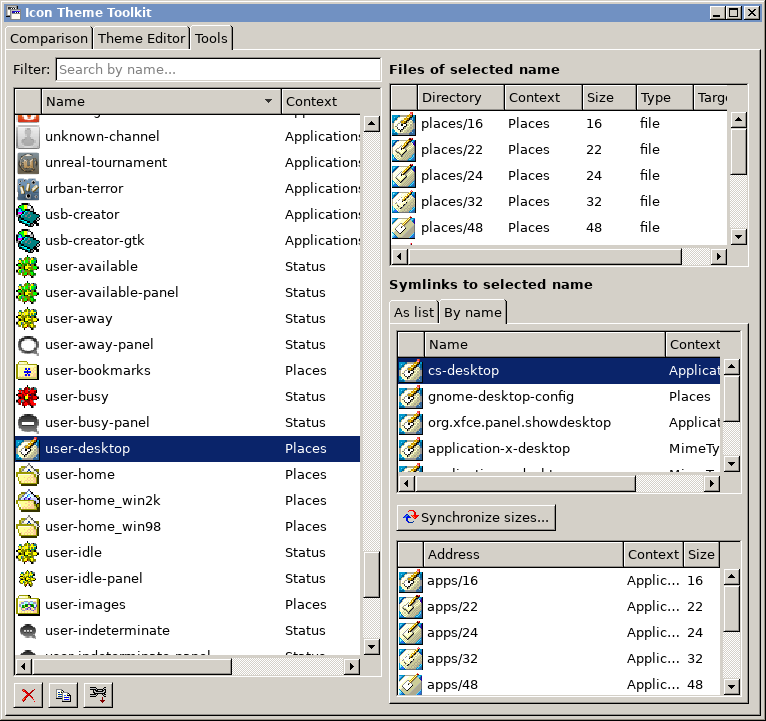
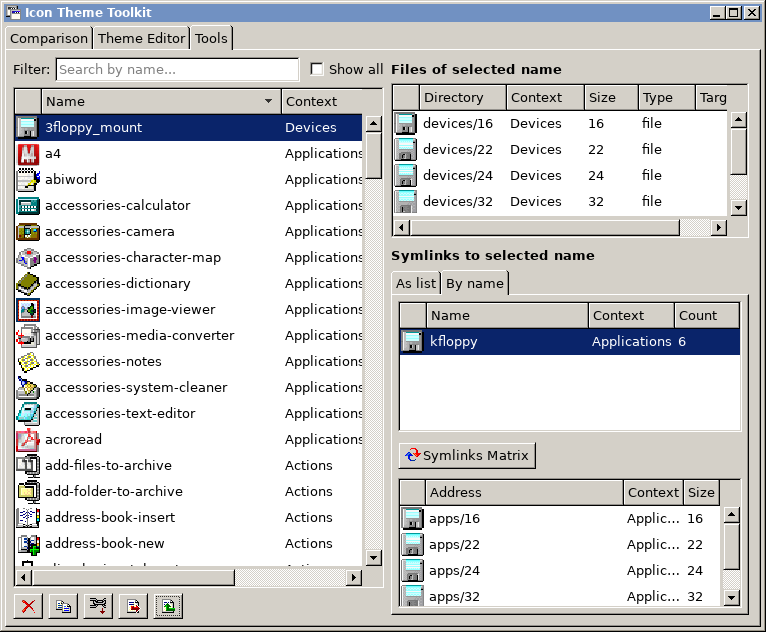
screenshots

diff --git a/README.md b/README.md
@@ -3,8 +3,14 @@ English version of [icon-theme-toolkit](https://github.com/nestoris/icon-theme-t
 
 Screenshots:
 
-![](comparison.png)
+![Icon themes comparison tab](comparison.png)
 
-![](theme-editor.png)
+![index.theme editing tab](theme-editor.png)
 
-![](tools.png)
+![Theme tools](tools.png)
+
+![ICO export tool](ico-export.png)
+
+![ICO import tool](ico-import.png)
+
+![Symlink matrix tool](symlink-matrix.png)
